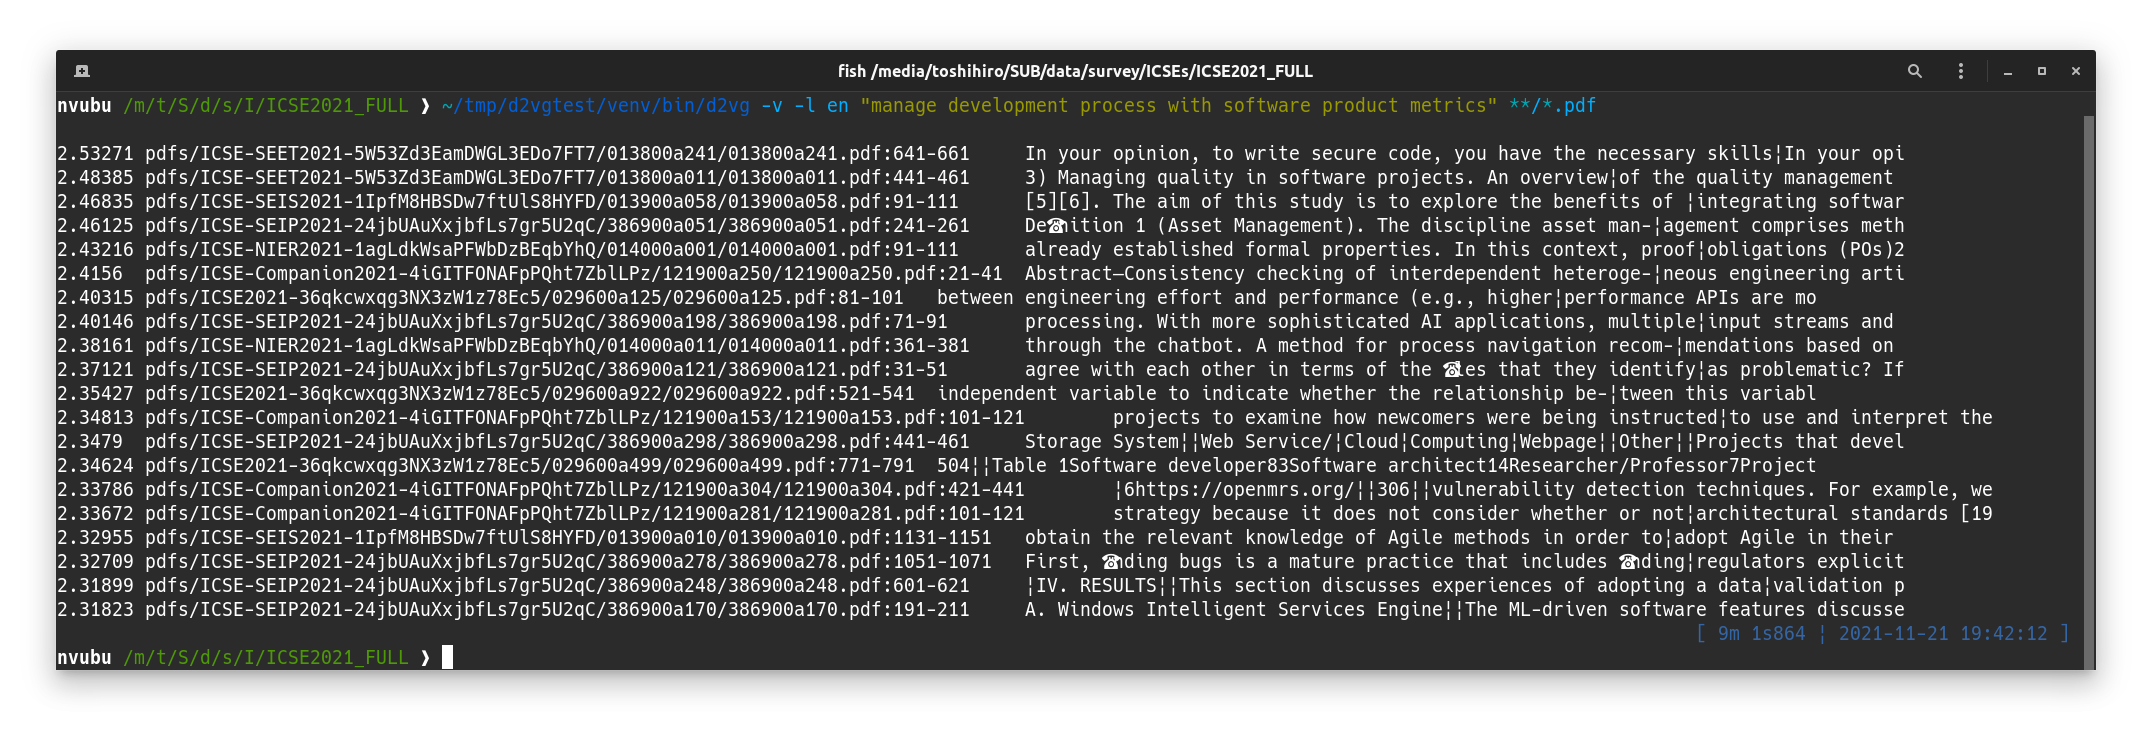
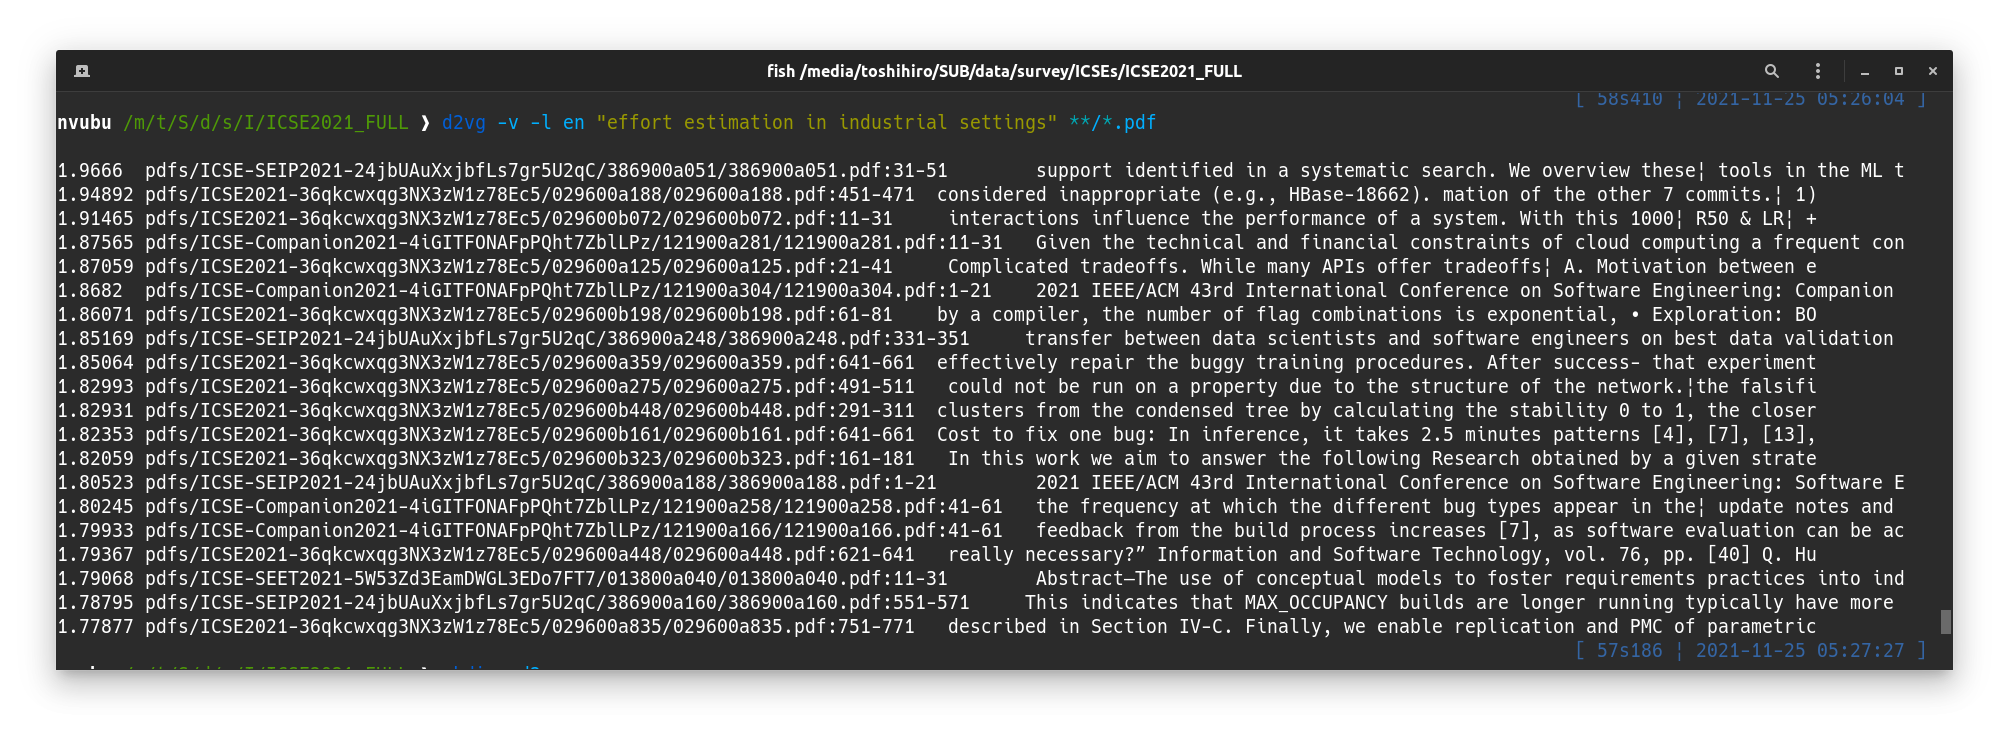
refactor: change the library for reading PDFs

Changed region(s): [[0.0, 0.0902, 0.9876, 0.9317], [0.8024, 0.0902, 0.9567, 0.1503], [0.9567, 0.0902, 0.9876, 0.1202]]

diff --git a/d2vg/parsers.py b/d2vg/parsers.py
@@ -7,10 +7,7 @@ import subprocess
 import sys
 
 import bs4
-from pdfminer.pdfinterp import PDFResourceManager, PDFPageInterpreter
-from pdfminer.converter import TextConverter
-from pdfminer.layout import LAParams
-from pdfminer.pdfpage import PDFPage
+import pdftotext
 import docx2txt
 
 
@@ -76,16 +73,12 @@ class Parser:
 
 
 def pdf_parse(file_name: str) -> str:
-    manager = PDFResourceManager()
+    with open(file_name, "rb") as f:
+        pdf = pdftotext.PDF(f)
 
-    with StringIO() as outp:
-        with open(file_name, 'rb') as input:
-            with TextConverter(manager, outp, codec='utf-8', laparams=LAParams()) as conv:
-                interpreter = PDFPageInterpreter(manager, conv)
-                for page in PDFPage.get_pages(input):
-                    interpreter.process_page(page)
-        text = outp.getvalue()
-        text = re.sub(r'(cid:\d+)', '', text)  # remove unknown glyphs
+    page_texts = [page for page in pdf]
+    text = ''.join(page_texts)
+    # text = re.sub(r'(cid:\d+)', '', text)  # remove unknown glyphs
 
     return text
 

diff --git a/d2vg/model_loaders.py b/d2vg/model_loaders.py
@@ -13,7 +13,7 @@ from .types import Vec
 
 _script_dir = os.path.dirname(os.path.realpath(__file__))
 
-INDEXER_VERSION = "4"  # gensim major version
+INDEXER_VERSION = "4"  # gensim major version 
 _app_name = 'd2vg'
 _author = 'tos.kamiya'
 _user_data_dir = appdirs.user_data_dir(_app_name, _author)

diff --git a/docs/installation-on-ubuntu.ja_JP.md b/docs/installation-on-ubuntu.ja_JP.md
@@ -2,7 +2,11 @@
 
 下記の手順はUbuntu 20.04で確認したものです。
 
-(1) スクリプトや依存を`pip`でインストールします。
+(1) 依存やd2vを`apt`や`pip`でインストールします。
+
+`pdf2text`を記述 https://github.com/jalan/pdftotext に従ってインストールしてください。
+
+`d2vg`を次のようにしてインストールしてください。
 
 ```sh
 pip3 install git+https://github.com/tos-kamiya/d2vg.git

diff --git a/docs/installation-on-windows.ja_JP.md b/docs/installation-on-windows.ja_JP.md
@@ -1,6 +1,10 @@
 ## Windowsでのインストール
 
-(1) スクリプトや依存を`pip`でインストールします。
+(1) 依存やd2vを`Microsoft Visual C++ Build Tools`、`conda`、`pip`でインストールします。
+
+`pdf2text`を記述 https://github.com/jalan/pdftotext に従ってインストールしてください。
+
+`d2vg`を次のようにしてインストールしてください。
 
 ```
 pip install wheel

diff --git a/README.ja_JP.md b/README.ja_JP.md
@@ -57,7 +57,7 @@ rm -rf .d2vg
 ```
 
 インデックスを有効にしたときの実行例:  
-(この例では、インデックス化をしていないときは9分かかっていたものが、25秒に短縮されました。)  
+(この例では、インデックス化をしていないときは57秒かかっていたものが、4秒に短縮されました。)  
 ![Search in pdf files](images/example2.png)
 
 ## 開発

diff --git a/docs/installation-on-windows.md b/docs/installation-on-windows.md
@@ -1,6 +1,14 @@
 ## Installation on Windows
 
-(1) Install the script and dependencies with `pip`.
+(1) Install the dependencies and d2v with `Microsoft Visual C++ Build Tools`, `conda`, and `pip`.
+
+Install `pdf2text` according to the instructions at https://github.com/jalan/pdftotext.
+
+```
+conda install -c conda-forge poppler
+```
+
+Install `d2vg` as follows.
 
 ```
 pip install wheel

diff --git a/docs/installation-on-ubuntu.md b/docs/installation-on-ubuntu.md
@@ -2,7 +2,9 @@
 
 The following steps have been checked on Ubuntu 20.04.
 
-(1) Install the script and dependencies with `pip`.
+(1) Install the dependencies and d2v with `apt` and `pip`.
+
+Install pdf2text according to the instructions at https://github.com/jalan/pdftotext.
 
 ```sh
 pip3 install git+https://github.com/tos-kamiya/d2vg.git

diff --git a/README.md b/README.md
@@ -57,7 +57,7 @@ rm -rf .d2vg
 ```
 
 Example of execution with indexes enabled:  
-(In this example, it took 9 minutes without indexing, but it was reduced to 25 seconds.)  
+(In this example, it took 57 seconds without indexing, but it was reduced to 4 seconds.)  
 ![Search in pdf files](images/example2.png)
 
 ## Development
